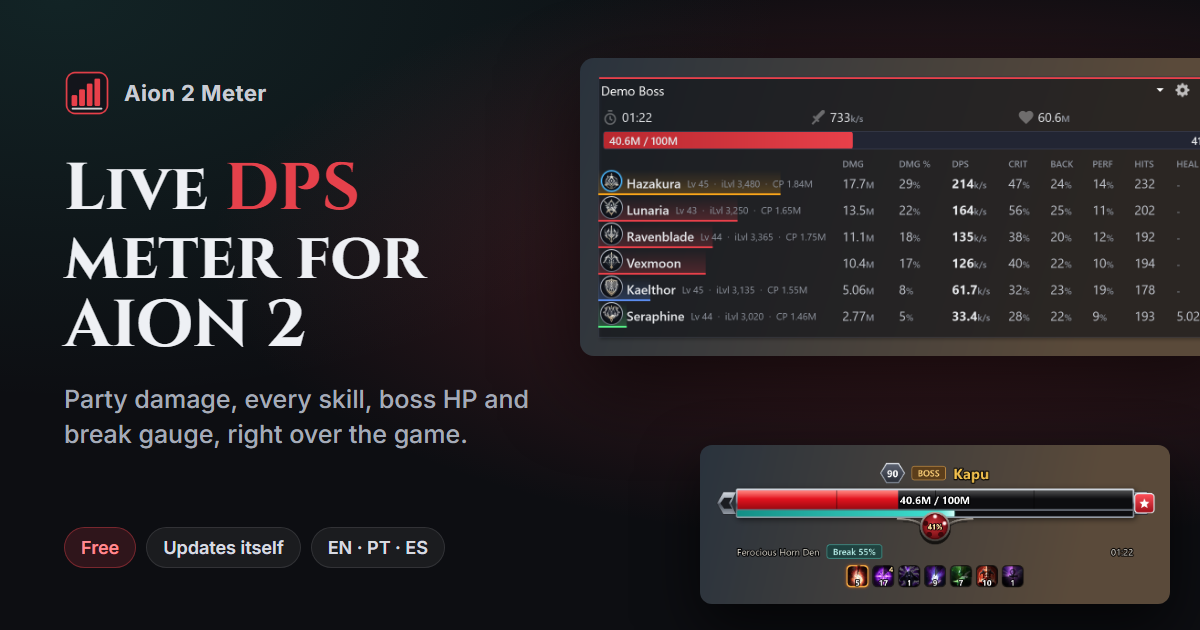
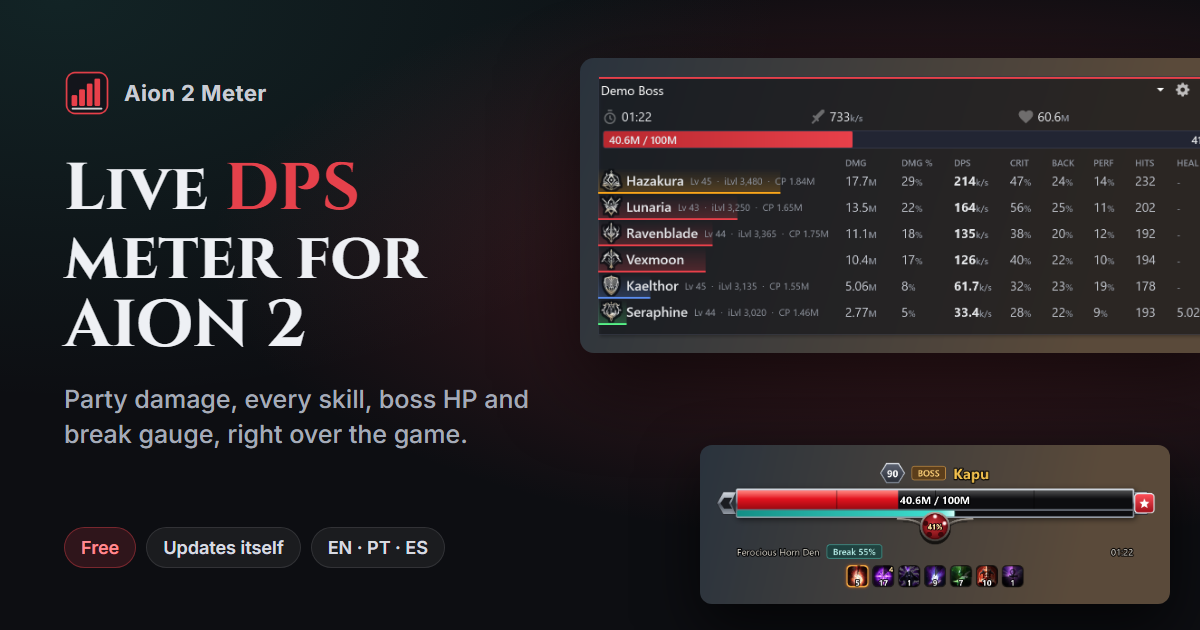
Update page

diff --git a/index.html b/index.html
@@ -147,7 +147,7 @@
             Download for Windows</a>
           <a class="btn btn-ghost" href="#install">How to install</a>
         </div>
-        <p class="meta">Free · Windows 10 and 11 · Updates itself · English, Português, Español</p>
+        <p class="meta">Free · Windows 10 and 11 · Updates itself · English, Português (Brasil), Español</p>
       </div>
       <div class="hero-shot">
         <img class="meter" src="img/meter-active-dps.png" alt="The meter during a boss fight: six players with damage, damage share, DPS, crits, back attacks and more">
@@ -177,6 +177,7 @@
           <li>Damage, share, DPS, crit, back attacks, perfect hits, heals</li>
           <li>Pick the columns you want and how many players to show</li>
           <li>Copy a summary to the chat with one click</li>
+          <li>Class icons your way: silver, class colors or the game's own frame<span class="tag-new">New</span></li>
         </ul>
       </div>
       <img class="shot" src="img/meter-active-dps.png" alt="Party meter" loading="lazy">
@@ -259,10 +260,11 @@
         <h3>Event reminders<span class="tag-new">New</span></h3>
         <p>Never miss a rift again. A heads up over the game a few minutes before.</p>
         <ul>
-          <li>Spacetime Rifts, daily and weekly resets, in your own time zone</li>
+          <li>Spacetime Rifts on your region's server clock (SA, EU, NA, JP), daily and weekly resets, in your own time zone</li>
           <li>The hourly Shugo Festival too, if you want it</li>
           <li>Pick the events and how many minutes before</li>
-          <li>Windows notification when you're in another program</li>
+          <li>Shows up even when you're altabbed in another program</li>
+          <li>Two events at once? They stack, nothing hides behind the other</li>
           <li>A test button so you see and hear it before the real thing</li>
         </ul>
       </div>
@@ -279,6 +281,7 @@
         <ul>
           <li>The meter tells you right after it updates, with the button right there</li>
           <li>Also in the tray menu and in Settings &gt; Misc settings</li>
+          <li>See what a version brings before you update, what changed right after, and every version's notes in Settings</li>
           <li>Your settings and saved fights stay as they are</li>
           <li>The bad version is skipped until a newer one comes out</li>
         </ul>
